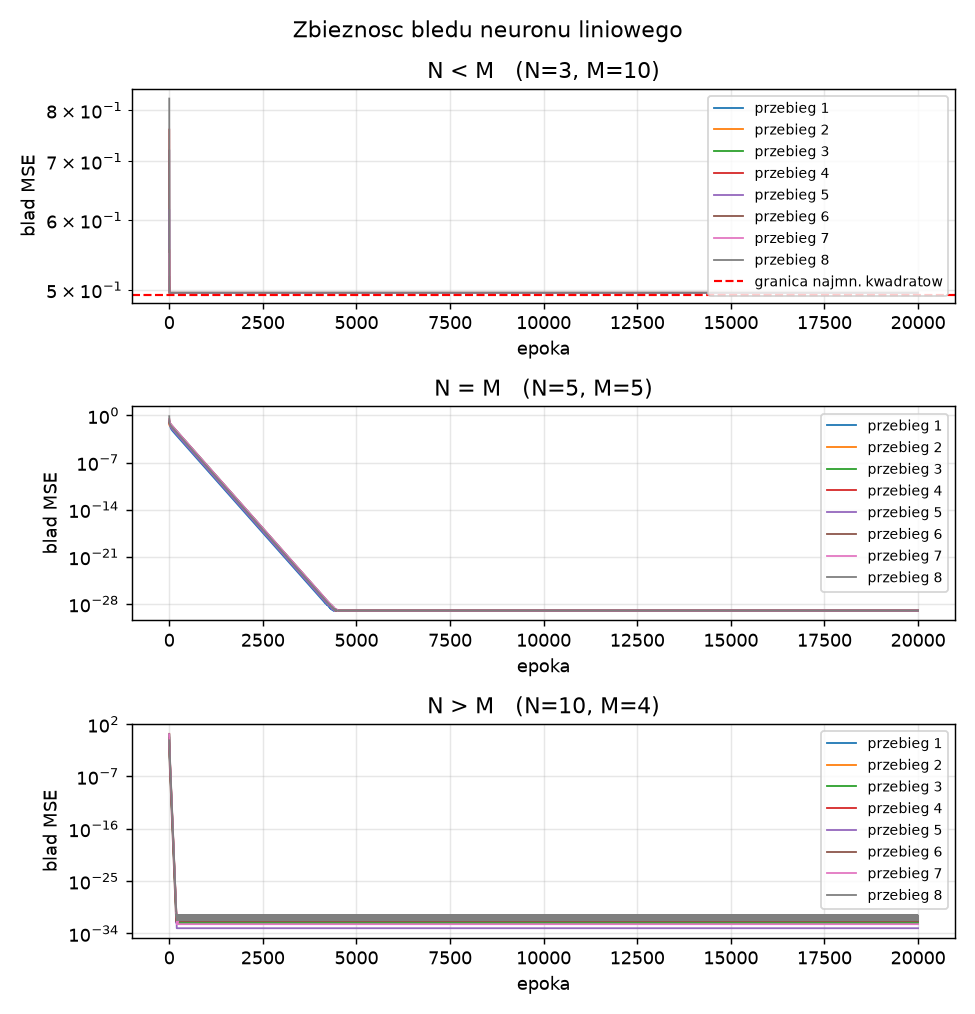
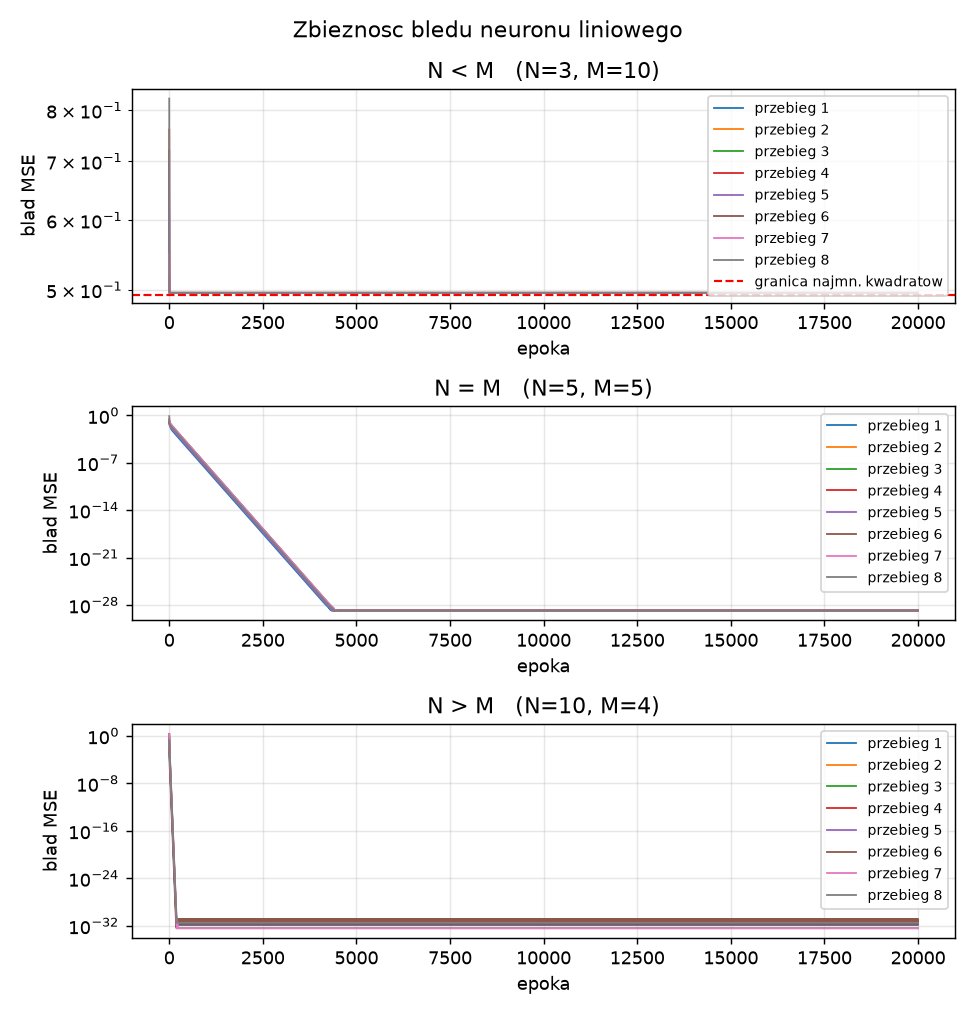
IAD/zadanie1: usuniecie linii 'skuteczny trening' z wynikow eksperymentow

diff --git a/IAD/zadanie1/experiments.py b/IAD/zadanie1/experiments.py
@@ -74,8 +74,7 @@ def report(label, description, N, M, c):
               f"- blad koncowy: {c['error']:.3e}, granica najmniejszych kwadratow: {c['ls_error']:.6f}",
               f"- odleglosc od X^+ t: {c['to_ls']:.3e}",
               f"- odchylka od w0 + X^+(t - X w0): {c['to_limit']:.3e}",
-              f"- ||X (w_i - w_1)||: {c['null']:.3e}",
-              f"- skuteczny trening: **{'TAK' if c['error'] < 1e-8 else 'NIE'}**", ""]
+              f"- ||X (w_i - w_1)||: {c['null']:.3e}", ""]
     return "\n".join(lines)
 
 

diff --git a/IAD/zadanie1/wyniki/wyniki.md b/IAD/zadanie1/wyniki/wyniki.md
@@ -20,7 +20,6 @@ uklad nadokreslony - wiecej rownan niz niewiadomych. Rzad macierzy X: 3. Wspolcz
 - odleglosc od X^+ t: 4.401e-02
 - odchylka od w0 + X^+(t - X w0): 4.401e-02
 - ||X (w_i - w_1)||: 8.636e-17
-- skuteczny trening: **NIE**
 
 ### Przypadek N = M  (N = 5 wag, M = 5 wzorcow)
 
@@ -28,21 +27,20 @@ uklad kwadratowy - tyle samo rownan co niewiadomych. Rzad macierzy X: 5. Wspolcz
 
 | przebieg | w1 | w2 | w3 | w4 | w5 | blad MSE |
 |---|---|---|---|---|---|---|
-| 1 | -1.2188 | -0.1165 | -0.2026 | 0.6470 | -1.4753 | 1.006e-29 |
-| 2 | -1.2188 | -0.1165 | -0.2026 | 0.6470 | -1.4753 | 1.006e-29 |
-| 3 | -1.2188 | -0.1165 | -0.2026 | 0.6470 | -1.4753 | 1.006e-29 |
-| 4 | -1.2188 | -0.1165 | -0.2026 | 0.6470 | -1.4753 | 1.006e-29 |
-| 5 | -1.2188 | -0.1165 | -0.2026 | 0.6470 | -1.4753 | 1.006e-29 |
-| 6 | -1.2188 | -0.1165 | -0.2026 | 0.6470 | -1.4753 | 1.006e-29 |
-| 7 | -1.2188 | -0.1165 | -0.2026 | 0.6470 | -1.4753 | 1.006e-29 |
-| 8 | -1.2188 | -0.1165 | -0.2026 | 0.6470 | -1.4753 | 1.006e-29 |
+| 1 | -1.2188 | -0.1165 | -0.2026 | 0.6470 | -1.4753 | 1.465e-29 |
+| 2 | -1.2188 | -0.1165 | -0.2026 | 0.6470 | -1.4753 | 1.465e-29 |
+| 3 | -1.2188 | -0.1165 | -0.2026 | 0.6470 | -1.4753 | 1.465e-29 |
+| 4 | -1.2188 | -0.1165 | -0.2026 | 0.6470 | -1.4753 | 1.465e-29 |
+| 5 | -1.2188 | -0.1165 | -0.2026 | 0.6470 | -1.4753 | 1.465e-29 |
+| 6 | -1.2188 | -0.1165 | -0.2026 | 0.6470 | -1.4753 | 1.465e-29 |
+| 7 | -1.2188 | -0.1165 | -0.2026 | 0.6470 | -1.4753 | 1.465e-29 |
+| 8 | -1.2188 | -0.1165 | -0.2026 | 0.6470 | -1.4753 | 1.465e-29 |
 
 - rozrzut wag miedzy przebiegami: **0.000e+00**
-- blad koncowy: 1.006e-29, granica najmniejszych kwadratow: 0.000000
-- odleglosc od X^+ t: 2.043e-14
-- odchylka od w0 + X^+(t - X w0): 2.132e-14
+- blad koncowy: 1.465e-29, granica najmniejszych kwadratow: 0.000000
+- odleglosc od X^+ t: 2.642e-14
+- odchylka od w0 + X^+(t - X w0): 2.731e-14
 - ||X (w_i - w_1)||: 0.000e+00
-- skuteczny trening: **TAK**
 
 ### Przypadek N > M  (N = 10 wag, M = 4 wzorcow)
 
@@ -50,28 +48,27 @@ uklad niedookreslony - mniej rownan niz niewiadomych. Rzad macierzy X: 4. Wspolc
 
 | przebieg | w1 | w2 | w3 | w4 | w5 | w6 | w7 | w8 | w9 | w10 | blad MSE |
 |---|---|---|---|---|---|---|---|---|---|---|---|
-| 1 | -1.1484 | 0.2321 | 0.8647 | -0.0028 | -0.1200 | 0.1589 | 0.4281 | -0.5156 | -0.3027 | -0.4232 | 1.310e-32 |
-| 2 | -0.9315 | 0.6882 | -0.4528 | 0.3341 | 0.5786 | -0.8529 | -0.3146 | -0.4406 | 0.7765 | 0.3169 | 1.310e-32 |
-| 3 | -0.3221 | 0.2628 | 0.2131 | -0.1244 | 0.8318 | -0.1629 | 0.4370 | -1.3320 | 0.3120 | 0.0711 | 6.163e-33 |
-| 4 | -0.9315 | 0.3100 | 0.3404 | 0.4895 | 0.6524 | 0.2460 | 0.6681 | 0.6353 | 0.3371 | -0.6252 | 5.007e-32 |
-| 5 | -0.9948 | 0.1395 | 0.7349 | 0.0409 | 0.4911 | -0.2731 | -0.3504 | 0.4790 | 0.6970 | -1.1956 | 7.704e-34 |
-| 6 | -0.4440 | 0.3526 | 0.1028 | 0.1796 | 1.0787 | -0.0493 | 0.2630 | -0.7475 | 0.4669 | 0.4817 | 1.849e-32 |
+| 1 | -1.1484 | 0.2321 | 0.8647 | -0.0028 | -0.1200 | 0.1589 | 0.4281 | -0.5156 | -0.3027 | -0.4232 | 3.467e-32 |
+| 2 | -0.9315 | 0.6882 | -0.4528 | 0.3341 | 0.5786 | -0.8529 | -0.3146 | -0.4406 | 0.7765 | 0.3169 | 1.240e-31 |
+| 3 | -0.3221 | 0.2628 | 0.2131 | -0.1244 | 0.8318 | -0.1629 | 0.4370 | -1.3320 | 0.3120 | 0.0711 | 3.852e-33 |
+| 4 | -0.9315 | 0.3100 | 0.3404 | 0.4895 | 0.6524 | 0.2460 | 0.6681 | 0.6353 | 0.3371 | -0.6252 | 8.012e-32 |
+| 5 | -0.9948 | 0.1395 | 0.7349 | 0.0409 | 0.4911 | -0.2731 | -0.3504 | 0.4790 | 0.6970 | -1.1956 | 1.541e-32 |
+| 6 | -0.4440 | 0.3526 | 0.1028 | 0.1796 | 1.0787 | -0.0493 | 0.2630 | -0.7475 | 0.4669 | 0.4817 | 6.471e-32 |
 | 7 | -0.3588 | 0.1756 | 0.8474 | 0.1737 | 1.3561 | 0.2222 | -0.1955 | -0.8086 | 0.2946 | 1.0806 | 3.852e-33 |
-| 8 | -1.2887 | -0.1010 | 0.5066 | -0.5214 | 0.5686 | 1.0695 | -0.3734 | 0.4197 | 0.5905 | -0.3002 | 5.932e-32 |
+| 8 | -1.2887 | -0.1010 | 0.5066 | -0.5214 | 0.5686 | 1.0695 | -0.3734 | 0.4197 | 0.5905 | -0.3002 | 3.159e-32 |
 
 - rozrzut wag miedzy przebiegami: **2.276e+00**
-- blad koncowy: 5.932e-32, granica najmniejszych kwadratow: 0.000000
+- blad koncowy: 1.240e-31, granica najmniejszych kwadratow: 0.000000
 - odleglosc od X^+ t: 1.219e+00
-- odchylka od w0 + X^+(t - X w0): 2.442e-15
-- ||X (w_i - w_1)||: 6.106e-16
-- skuteczny trening: **TAK**
+- odchylka od w0 + X^+(t - X w0): 1.998e-15
+- ||X (w_i - w_1)||: 6.661e-16
 
 ### Powtarzalnosc dla roznych losowan zbioru
 
 | ziarno | N < M rozrzut / blad | N = M rozrzut / blad | N > M rozrzut / blad |
 |---|---|---|---|
-| 2024 | 5.55e-17 / 4.96e-01 | 0.00e+00 / 1.01e-29 | 1.97e+00 / 5.01e-32 |
-| 7 | 0.00e+00 / 4.60e-01 | 0.00e+00 / 6.58e-31 | 1.90e+00 / 3.45e-32 |
-| 99 | 0.00e+00 / 8.27e-01 | 0.00e+00 / 9.76e-28 | 1.69e+00 / 4.70e-32 |
-| 12345 | 4.44e-16 / 7.54e-01 | 0.00e+00 / 3.71e-29 | 1.72e+00 / 8.50e-32 |
-| 555 | 8.33e-17 / 9.95e-01 | 3.55e-15 / 4.97e-30 | 1.97e+00 / 1.54e-32 |
+| 2024 | 5.55e-17 / 4.96e-01 | 0.00e+00 / 1.47e-29 | 1.97e+00 / 1.24e-31 |
+| 7 | 0.00e+00 / 4.60e-01 | 0.00e+00 / 5.83e-31 | 1.90e+00 / 3.12e-32 |
+| 99 | 0.00e+00 / 8.27e-01 | 0.00e+00 / 9.81e-28 | 1.69e+00 / 8.09e-32 |
+| 12345 | 4.44e-16 / 7.54e-01 | 1.29e-14 / 3.97e-29 | 1.72e+00 / 9.04e-32 |
+| 555 | 8.33e-17 / 9.95e-01 | 0.00e+00 / 1.58e-30 | 1.97e+00 / 7.70e-32 |
